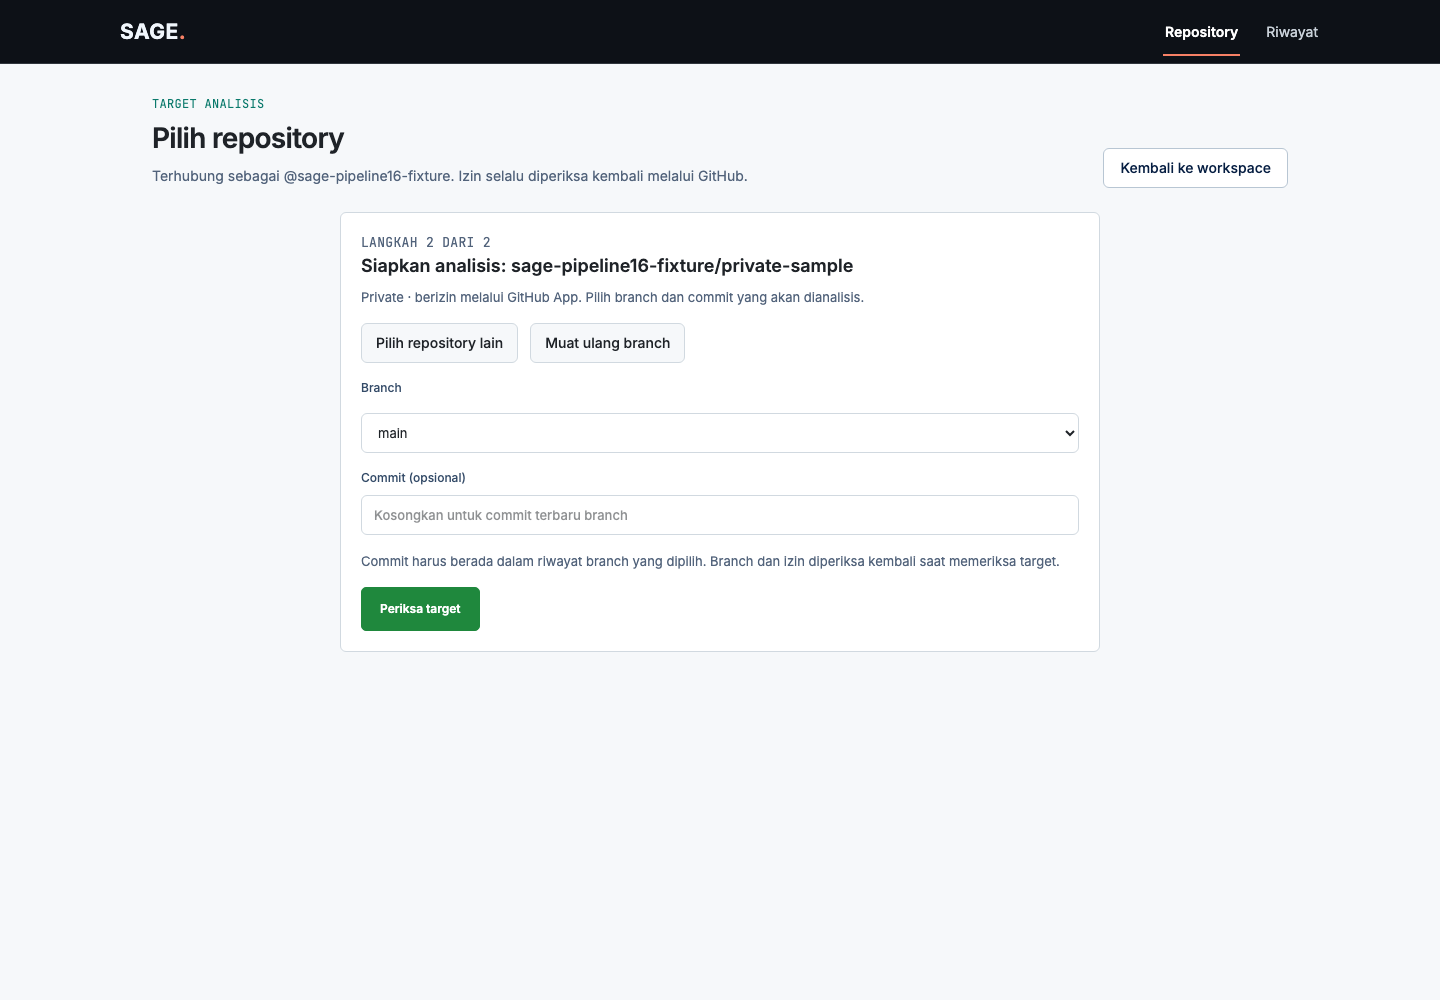
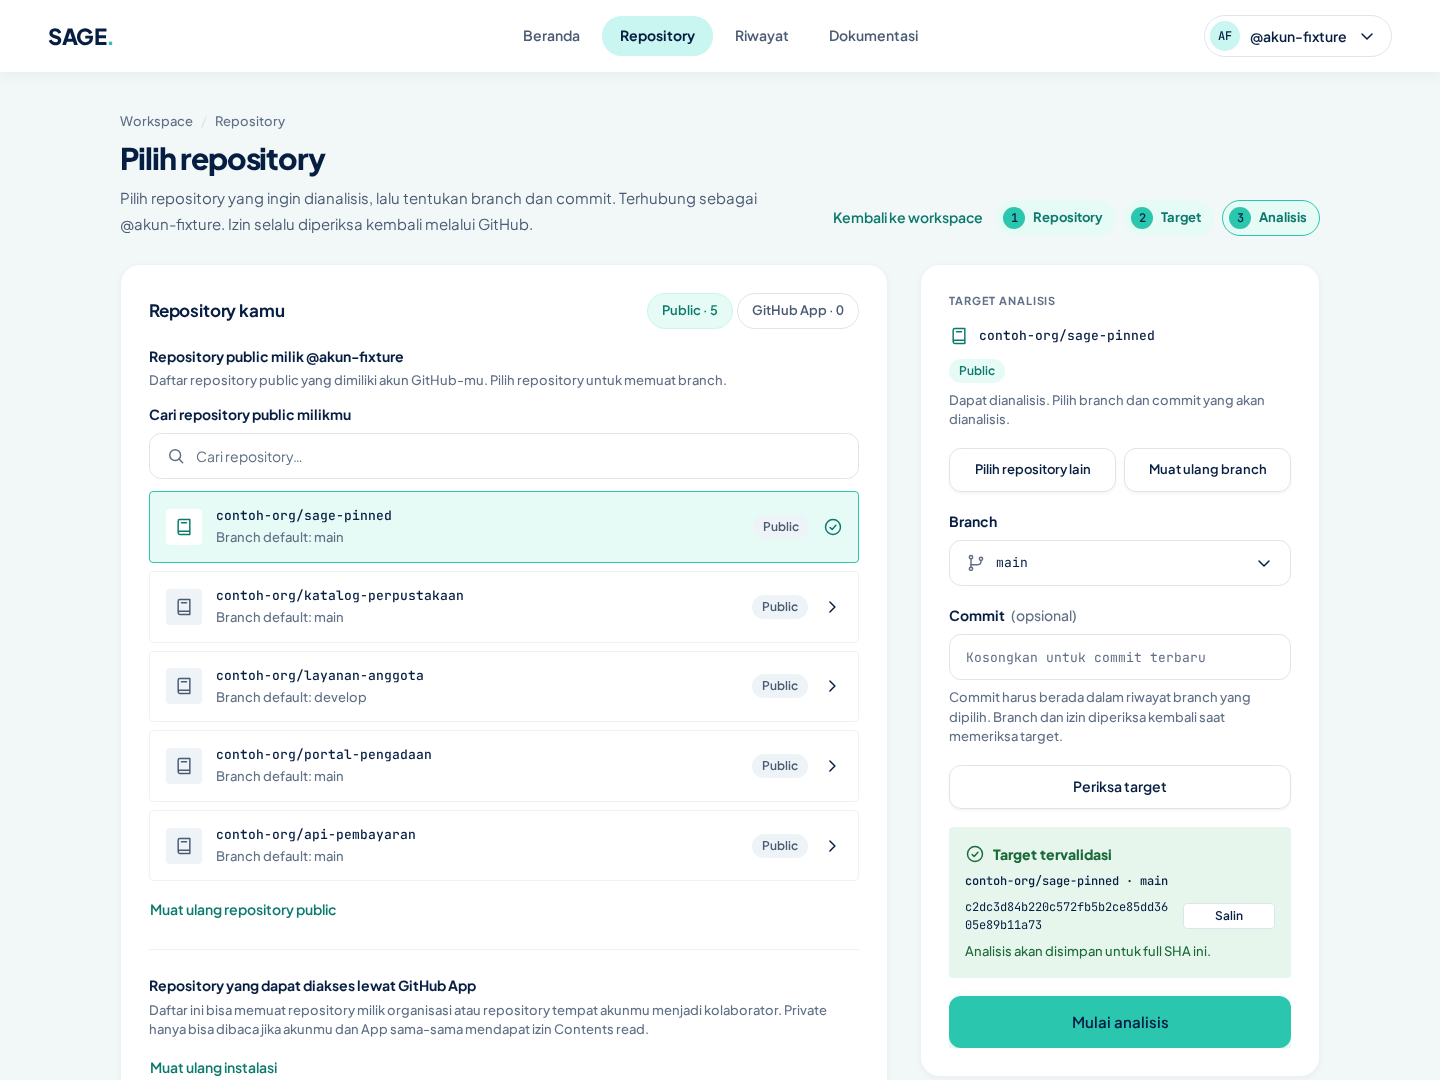
docs(readme): tulis ulang README dengan hero, angka, sebelum/sesudah, dan screenshot UI baru

diff --git a/README.md b/README.md
@@ -1,46 +1,55 @@
 <p align="center">
-  <img src="docs/assets/readme-banner.svg" alt="SAGE — Pahami struktur kode, telusuri buktinya" width="100%" />
+  <img src="docs/assets/readme-banner.svg" alt="Banner SAGE: From Repository to Architecture Definition Document, with Evidence. Baris model Analysis di schema.prisma menjadi baris Data Entity Catalog dengan evidence schema.prisma:183." width="100%" />
 </p>
 
-<p align="center"><strong>Source-code Architecture Graph Extraction</strong><br />Analisis repository menjadi TOGAF Phase C baseline yang bisa ditelusuri kembali ke source.</p>
+<p align="center">Ubah repository GitHub menjadi baseline TOGAF Phase C yang setiap klaimnya tertaut ke file, baris, dan commit.</p>
 
-<p align="center"><a href="https://sage.caiis.ai.id/">Buka SAGE</a> · <a href="docs/guides/USAGE.md">Panduan penggunaan</a> · <a href="docs/PROJECT_OVERVIEW.md">Project overview untuk AI agent</a> · <a href="docs/README.md">Dokumentasi</a> · <a href="CONTRIBUTING.md">Kontribusi</a></p>
+<p align="center">
+  <a href="https://github.com/AgilePemdigi-2026/sage/actions/workflows/ci.yml"><img src="https://img.shields.io/github/actions/workflow/status/AgilePemdigi-2026/sage/ci.yml?branch=main&label=CI" alt="Status CI Pull request checks pada branch main" /></a>
+  <a href="https://sage.caiis.ai.id/"><img src="https://img.shields.io/badge/live%20demo-sage.caiis.ai.id-2AC6AE" alt="Live demo di sage.caiis.ai.id" /></a>
+  <img src="https://img.shields.io/badge/Node.js-24-5FA04E?logo=nodedotjs&logoColor=white" alt="Node.js 24" />
+  <img src="https://img.shields.io/badge/Next.js-16-000000?logo=nextdotjs&logoColor=white" alt="Next.js 16" />
+  <img src="https://img.shields.io/badge/TypeScript-5.9-3178C6?logo=typescript&logoColor=white" alt="TypeScript 5.9" />
+</p>
 
-## Fitur dan dukungan
+<p align="center"><a href="https://sage.caiis.ai.id/">Buka SAGE</a> · <a href="docs/guides/USAGE.md">Panduan</a> · <a href="docs/README.md">Dokumentasi</a> · <a href="CONTRIBUTING.md">Kontribusi</a></p>
 
-| Fitur | Yang bisa dilakukan |
+![Landing SAGE: judul From Repository to Architecture Definition Document, with Evidence, tombol Analisis repository, dan tiga kartu hasil. Progres analisis 9 dari 9 tahap selesai, potongan TOGAF ADD dengan diagram ArchiMate dan Data Entity Catalog, serta Code Knowledge yang menunjuk src/app/api/books/route.ts baris 12.](docs/assets/screenshots/landing-hero.png)
+
+## Dalam angka
+
+Semua angka di bawah bisa dicek di repository ini.
+
+| Angka | Artinya | Sumber |
+| --- | --- | --- |
+| **9** | Tahap pipeline analisis, dari snapshot sampai penyimpanan hasil | [`packages/contracts/src/stages.ts`](packages/contracts/src/stages.ts) |
+| **10** | Bagian ADD Phase C: 5 Data Architecture dan 5 Application Architecture | [`packages/documents/src/phase-c-add.ts`](packages/documents/src/phase-c-add.ts) |
+| **4** | Bahasa yang dibaca statis: JavaScript, TypeScript, PHP, dan subset Python. Ditambah kontrak SQL, OpenAPI, dan JSON Schema | [`docs/reference/ANALYSIS_SPEC.md`](docs/reference/ANALYSIS_SPEC.md#kriteria-capability) |
+| **20** | Skenario BDD Sprint 1 (GitHub, repository, antrean, runner, source, UI) | [`tests/bdd/features/`](tests/bdd/features/) |
+| **57** | Skenario BDD Sprint 2 lulus (220 langkah, 0 gagal) | [`docs/evidence/BDD-Sprint2-Gherkin-2026-11-09.json`](docs/evidence/BDD-Sprint2-Gherkin-2026-11-09.json) |
+| **100 / 100** | Lighthouse landing, Performance dan Accessibility (mobile, 3 run). LCP 1,1 detik | [`docs/evidence/ui-revisi-2-lighthouse-2026-11-24.json`](docs/evidence/ui-revisi-2-lighthouse-2026-11-24.json) |
+
+## Sebelum dan sesudah
+
+Contoh: menyusun **Data Entity Catalog** untuk repository dengan 17 model Prisma.
+
+**Sebelum (manual).** Buka `schema.prisma`. Cari setiap blok `model`. Salin namanya ke tabel. Catat file dan nomor barisnya sebagai bukti. Ulangi 17 kali. Ulangi lagi setiap ada commit baru.
+
+**Sesudah (SAGE).** Pilih repository dan commit. SAGE menghasilkan katalog berikut, lengkap dengan evidence per baris:
+
+| Data entity | Evidence |
 | --- | --- |
-| Akses GitHub | Login dengan GitHub App; pilih repository public sendiri, public pihak lain, atau private yang diizinkan |
-| Analisis repository | Pilih branch/commit, jalankan pipeline berurutan, pantau progres dan elapsed time, lalu retry jika gagal |
-| Code Knowledge | Visual pendamping untuk menelusuri struktur source, dependency, filter node, fokus tetangga, dan evidence file/baris |
-| TOGAF Phase C ADD | Susun baseline Data Architecture dan Application Architecture dari satu snapshot commit |
-| Catalog dan matrix | Baca data entity, interface, functional decomposition, CRUD, dan interaksi yang didukung evidence |
-| Review dan ekspor | Koreksi nama/kelompok sebagai overlay; unduh Markdown, LaTeX, atau gunakan print-to-PDF A4 dari snapshot yang sama |
-| History | Cari dan buka kembali hasil milik akun sendiri, lalu hapus analisis beserta artefaknya setelah konfirmasi |
+| Analysis | [`schema.prisma:183`](tests/fixtures/semantic/sage-pinned/packages/database/prisma/schema.prisma#L183) |
+| Analysis Stage | [`schema.prisma:261`](tests/fixtures/semantic/sage-pinned/packages/database/prisma/schema.prisma#L261) |
+| Export | [`schema.prisma:362`](tests/fixtures/semantic/sage-pinned/packages/database/prisma/schema.prisma#L362) |
+| Repository | [`schema.prisma:167`](tests/fixtures/semantic/sage-pinned/packages/database/prisma/schema.prisma#L167) |
+| User | [`schema.prisma:84`](tests/fixtures/semantic/sage-pinned/packages/database/prisma/schema.prisma#L84) |
 
-**Batas analyzer:** JavaScript/TypeScript dan PHP dibaca secara statis. Python baru mendukung subset konservatif untuk deklarasi, route literal FastAPI-style, model SQLAlchemy-style, dan relasi lokal; SQL, OpenAPI JSON/YAML, serta sebagian JSON Schema menyumbang data/interface contract. Kode target tidak dijalankan dan bahasa/framework lain belum otomatis didukung. LLM kampus hanya membantu narasi jika pengguna memberi consent; ia tidak menambah fakta arsitektur.
+Potongan 5 dari 17 baris. Semua baris berasal dari blok `model` Prisma, jadi deskripsinya sama untuk setiap baris ("Data model explicitly declared by a Prisma model block."). Hasil asli pipeline analyzer, semantic model, dan ADD baseline atas fixture [`tests/fixtures/semantic/sage-pinned`](tests/fixtures/semantic/sage-pinned/) (snapshot source SAGE sendiri, commit `c2dc3d8`). Kolom Group dan Application access kosong pada fixture ini, jadi tidak ditampilkan juga.
 
-**Code Knowledge dan ADD adalah keluaran berbeda.** Graph membantu menelusuri source; ADD adalah dokumen arsitektur utama. ADD saat ini hanya baseline: target architecture, gap/RAG analysis, business capability mapping, owner, dan lokasi deployment memerlukan input manusia. `Proven`/`Indicated` tidak mengubah resolution CCM `Exact`/`Unresolved`. Lihat [panduan ADD](docs/reference/TOGAF_ADD.md) dan [kontrak analyzer](docs/reference/ANALYSIS_SPEC.md).
+## Cara kerja
 
-## Tampilan aplikasi
-
-Screenshot berasal dari aplikasi aktual dengan data fixture aman. Nama repository contoh dan commit sintetis bukan hasil analisis repository pengguna; cakupan pengambilannya tercatat pada [catatan screenshot](docs/assets/screenshots/README.md).
-
-### Pemilihan repository
-
-![Pemilihan repository dan target branch pada SAGE](docs/assets/screenshots/repository.png)
-
-### Code Knowledge
-
-![Graph komponen dan dependency dengan kontrol pencarian serta evidence](docs/assets/screenshots/code-knowledge.png)
-
-### Dokumentasi hasil (tampilan sebelum revisi ADD)
-
-![Tampilan dokumentasi lama sebelum keluaran utama diganti menjadi TOGAF Phase C baseline ADD](docs/assets/screenshots/documentation.png)
-
-## Workflow
-
-Klik node untuk membuka panduan terkait. GitHub menyediakan kontrol diagram; pada layar kecil, buka diagram untuk memperbesar.
+Klik node untuk membuka panduan terkait. Pada layar kecil, buka diagram untuk memperbesar.
 
 ```mermaid
 flowchart LR
@@ -53,41 +62,84 @@ flowchart LR
   click F "https://github.com/AgilePemdigi-2026/sage/blob/main/docs/guides/USAGE.md#ekspor-dan-history" "Review, ekspor, dan history"
 ```
 
-## Tech stack
+1. **Login GitHub.** Masuk lewat GitHub App. Token hanya disimpan di server.
+2. **Pilih repo dan commit.** Pilih repository dan branch. SAGE mengunci analisis ke satu full SHA.
+3. **Analisis.** Snapshot dibaca statis dalam 9 tahap. Kode target tidak pernah dijalankan.
+4. **Code Knowledge.** Telusuri module, simbol, dan dependency sampai ke file dan baris sumbernya.
+5. **Generate TOGAF ADD.** SAGE menyusun baseline Data dan Application Architecture dari snapshot yang sama.
+6. **Review dan ekspor.** Konfirmasi atau koreksi elemen, lalu unduh Markdown, LaTeX, atau PDF.
 
-<p align="center">
-  <a href="https://nextjs.org/"><img src="docs/assets/tech/nextjs.svg" alt="Next.js" title="Next.js" width="36" height="36" /></a>
-  <a href="https://react.dev/"><img src="docs/assets/tech/react.svg" alt="React" title="React" width="36" height="36" /></a>
-  <a href="https://www.typescriptlang.org/"><img src="docs/assets/tech/typescript.svg" alt="TypeScript" title="TypeScript" width="36" height="36" /></a>
-  <a href="https://tailwindcss.com/"><img src="docs/assets/tech/tailwindcss.svg" alt="Tailwind CSS" title="Tailwind CSS" width="36" height="36" /></a>
-  <a href="https://nodejs.org/"><img src="docs/assets/tech/nodejs.svg" alt="Node.js" title="Node.js" width="36" height="36" /></a>
-  <a href="https://www.php.net/"><img src="docs/assets/tech/php.svg" alt="PHP" title="PHP" width="36" height="36" /></a>
-  <a href="https://www.postgresql.org/"><img src="docs/assets/tech/postgresql.svg" alt="PostgreSQL" title="PostgreSQL" width="36" height="36" /></a>
-  <a href="https://www.prisma.io/"><img src="docs/assets/tech/prisma.svg" alt="Prisma" title="Prisma" width="36" height="36" /></a>
-  <a href="https://www.docker.com/"><img src="docs/assets/tech/docker.svg" alt="Docker" title="Docker" width="36" height="36" /></a>
-  <a href="https://playwright.dev/"><img src="docs/assets/tech/playwright.svg" alt="Playwright" title="Playwright" width="36" height="36" /></a>
-</p>
+## Fitur
 
-<p align="center">Next.js · React · TypeScript · Tailwind CSS · Node.js<br />PHP · PostgreSQL · Prisma · Docker · Playwright</p>
+| Fitur | Yang bisa dilakukan |
+| --- | --- |
+| Akses GitHub | Pilih repository public milikmu, public pihak lain, atau private yang diizinkan GitHub App |
+| Analisis | Pilih branch dan commit, pantau 9 tahap beserta durasinya, lalu retry bila gagal |
+| Code Knowledge | Cari, filter, dan fokus pada node. Inspector menunjukkan evidence file dan baris |
+| TOGAF Phase C ADD | Baseline Data dan Application Architecture dari satu snapshot commit |
+| Catalog dan matrix | Data entity, interface, functional decomposition, CRUD, dan interaksi aplikasi |
+| Review dan ekspor | Koreksi nama dan kelompok sebagai overlay. Ekspor Markdown, LaTeX, atau PDF A4 |
+| Riwayat | Cari, buka ulang, atau hapus analisis milikmu beserta artefaknya |
 
-Web/API memakai Next.js; worker Node.js mengorkestrasi analyzer statis JavaScript/TypeScript, PHP, dan subset Python serta proses ekspor. PostgreSQL menyimpan metadata dan hasil canonical. Snapshot serta file ekspor berada pada volume privat. LLM kampus bersifat opsional dan hanya menerima ringkasan nama/relasi setelah consent. Rincian ada di [arsitektur](docs/reference/ARCHITECTURE.md), [panduan ADD](docs/reference/TOGAF_ADD.md), dan [model data](docs/reference/DATA_MODEL.md). Logo mengikuti [lisensi aset](docs/assets/tech/README.md).
+## Tampilan
 
-## Quick start Docker
+Semua screenshot diambil dari aplikasi asli dengan akun dan nama repository sintetis. Rincian ada di [catatan screenshot](docs/assets/screenshots/README.md).
 
-Siapkan **Node.js 24** dan Docker dengan Compose yang aktif. Pengguna macOS dapat mengikuti [setup Colima](docs/guides/LOCAL_SETUP.md).
+### Repository
+
+![Halaman Pilih repository: daftar lima repository contoh, contoh-org/sage-pinned terpilih, branch main, dan kotak Target tervalidasi dengan full SHA serta tombol Mulai analisis.](docs/assets/screenshots/repository.png)
+
+### Progres
+
+![Halaman Progres analisis contoh-org/sage-pinned: status Analisis selesai, 9 dari 9 tahap selesai dengan durasi per tahap, dan durasi total 42 detik.](docs/assets/screenshots/progres.png)
+
+### TOGAF ADD
+
+![Architecture Definition Document untuk contoh-org/sage-pinned: daftar isi Data dan Application Architecture, ringkasan 17 data object dan 7 interface, serta panel ekspor Markdown, LaTeX, dan PDF.](docs/assets/screenshots/togaf-add.png)
+
+### Review ADD
+
+![Panel Review and correct the baseline: data object Analysis sudah dikonfirmasi dengan evidence packages/database/prisma/schema.prisma baris 183, progres review 1 dari 35 elemen.](docs/assets/screenshots/togaf-add-review.png)
+
+### Code Knowledge
+
+![Code Knowledge untuk contoh-org/sage-pinned: graph proyeksi esensial dengan node createExportHandlers tersorot, dan inspector yang menunjukkan apps/web/lib/exports/handlers.ts baris 84 sampai 196 serta relasi masuk.](docs/assets/screenshots/code-knowledge.png)
+
+### Riwayat
+
+![Riwayat analisis dengan lima baris: status Selesai, Berjalan, Selesai dengan batasan, dan Gagal. Setiap baris memuat SHA pendek dengan tombol salin, bahasa, durasi, dan tanggal.](docs/assets/screenshots/riwayat.png)
+
+## Quick start
+
+Siapkan **Node.js 24** dan Docker Compose. Pengguna macOS bisa memakai [Colima](docs/guides/LOCAL_SETUP.md).
 
 ```sh
 git clone https://github.com/AgilePemdigi-2026/sage.git
 cd sage
 node scripts/setup-local.mjs
-docker compose config --quiet
-docker compose build
-docker compose up -d --wait --wait-timeout 180
+node scripts/setup-github-app.mjs
+docker compose up -d --build --wait --wait-timeout 180
 ```
 
-Buka [localhost:3000](http://localhost:3000). `web`, `worker`, dan `db` harus healthy; `migrate` selesai dengan exit 0. **Login memerlukan konfigurasi GitHub App sendiri** sesuai [panduan GitHub App](docs/guides/GITHUB_APP_SETUP.md). Jangan commit `.env`, token, atau private key.
+Buka [localhost:3000](http://localhost:3000). Login butuh GitHub App milikmu sendiri: ikuti [panduan GitHub App](docs/guides/GITHUB_APP_SETUP.md). Jangan commit `.env`, token, atau private key. Langkah lengkap, cara berhenti tanpa kehilangan data, dan troubleshooting ada di [setup lokal](docs/guides/LOCAL_SETUP.md).
 
-Untuk menghentikan aplikasi tanpa menghapus data, jalankan `docker compose stop`. Untuk menyalakan container yang sudah dibuat, jalankan `docker compose start`; gunakan `up` di atas jika container belum ada. Perubahan source memerlukan build dan `up` kembali. Jangan memakai `down -v` bila ingin mempertahankan data. Panduan lengkap tersedia pada [setup lokal](docs/guides/LOCAL_SETUP.md).
+## Batasan
+
+**Batas analyzer**
+
+- JavaScript, TypeScript, dan PHP dibaca secara statis.
+- Python baru subset konservatif: deklarasi, route literal gaya FastAPI, model gaya SQLAlchemy, dan relasi lokal.
+- SQL, OpenAPI JSON/YAML, dan sebagian JSON Schema menyumbang kontrak data dan interface.
+- Kode target tidak dijalankan. Bahasa dan framework lain belum didukung otomatis.
+- LLM kampus hanya membantu narasi, dan hanya jika pengguna memberi consent. LLM tidak menambah fakta arsitektur.
+
+**Code Knowledge dan ADD**
+
+- Keduanya keluaran berbeda. Graph membantu menelusuri source. ADD adalah dokumen arsitektur utama.
+- ADD saat ini hanya baseline.
+- Target architecture, gap/RAG analysis, business capability mapping, owner, dan lokasi deployment tetap butuh input manusia.
+- `Proven` dan `Indicated` tidak mengubah resolution CCM `Exact` atau `Unresolved`.
+- Rincian: [panduan ADD](docs/reference/TOGAF_ADD.md) dan [kontrak analyzer](docs/reference/ANALYSIS_SPEC.md).
 
 ## Dokumentasi
 
@@ -100,3 +152,14 @@ Untuk menghentikan aplikasi tanpa menghapus data, jalankan `docker compose stop`
 | Meninjau requirement dan bukti | [Planning](docs/planning/README.md) · [Arsip pemeriksaan](docs/archive/README.md) · [Evidence](docs/evidence/) |
 
 [Buka seluruh dokumentasi](docs/README.md).
+
+## Tim
+
+Kelompok 4 PPL, Sistem Informasi, Universitas Airlangga (UNAIR).
+
+| Anggota | GitHub |
+| --- | --- |
+| Iltizam Muhammad Hasan | [@iltizamhasan3](https://github.com/iltizamhasan3) |
+| Rizqy Fadhil Athallah | [@rizqy-fadhil](https://github.com/rizqy-fadhil) |
+| Valentina Hermawan | [@liliks13](https://github.com/liliks13) |
+| Zarra Firdaus Ananda Salia | [@zarrrafirdaus](https://github.com/zarrrafirdaus) |

diff --git a/docs/assets/screenshots/README.md b/docs/assets/screenshots/README.md
@@ -1,30 +1,35 @@
 # Screenshot produk
 
-Gambar berasal dari aplikasi SAGE aktual pada browser lokal, bukan mockup desain. Seluruh identitas, repository contoh, source fixture, dan commit sintetis merupakan data pengujian. Tidak ada kredensial atau source repository private pengguna. Screenshot disalin tanpa retouch dari artefak browser; metadata lengkap tetap pada laporan lokal.
+Gambar berasal dari aplikasi SAGE asli (server standalone produksi) di browser Chromium, bukan mockup desain. Tidak ada retouch.
 
-Source aplikasi saat pengambilan: `f4e6ab9eaff8725fc322f30e2dfe23bc352a4fef`. Instrumentasi sementara hanya menambahkan screenshot/ukuran viewport pada langkah BDD dan sudah dikembalikan; tidak ada perubahan fitur atau test runner pada PR dokumentasi. Run graph/document di bawah memeriksa subset SRS, bukan seluruh acceptance Sprint 2 atau OAuth live.
+## Data yang dipakai
 
-## repository.png
+- Akun `@akun-fixture` dan repository `contoh-org/*` adalah data sintetis. Tidak ada akun GitHub atau repository pengguna nyata.
+- Analisis `contoh-org/sage-pinned` memakai source fixture [`tests/fixtures/semantic/sage-pinned`](../../../tests/fixtures/semantic/sage-pinned/) (snapshot source SAGE sendiri, commit `c2dc3d8`). Graph, ADD baseline, dan evidence dihasilkan oleh analyzer, semantic model, dan ADD baseline asli, lalu disimpan ke database test.
+- Empat baris lain di Riwayat hanya baris analisis sintetis tanpa artefak.
+- Daftar repository, branch, dan target di halaman Repository di-mock di browser, karena akun sintetis tidak punya akses GitHub.
+- Kredensial dan token di harness bersifat sintetis. Tidak ada kredensial nyata.
 
-- Waktu: 15 November 2026, 10:54 UTC.
-- Scope: Fixture provider terkontrol; UI repository/target aktual. Nama private-sample hanya data sintetis, bukan source private.
-- Artefak lokal: `artifacts/bdd/sprint2-2026-11-15T10-54-26-914Z/live-pipeline/matrix-repository-selected-1440.png`.
[1 lines of base64/hex data omitted]
+## Cara pengambilan
 
-## code-knowledge.png
+- Tanggal: 24 November 2026.
+- Source aplikasi: `cabd9f0` (branch `docs/readme-dan-riwayat`).
+- Harness Docker terisolasi (project `sage-bdd-ui`) dengan database disposable `sage_bdd_sprint1` dan server di port 3100.
+- Viewport 1440 px, reduced motion aktif agar animasi tidak terekam di tengah jalan.
+- Artefak lokal (tidak di-commit): `artifacts/bdd/readme-20261124/`.
 
-- Waktu: 15 November 2026, 11:17 UTC.
-- Scope: Browser BDD graph: 5 skenario/33 langkah PASS; database disposable, sesi sintetis, komponen aplikasi aktual.
-- Artefak lokal: `artifacts/bdd/sprint2-2026-11-15T11-17-08-447Z/readme-graph.png`.
[1 lines of base64/hex data omitted]
+## Berkas
 
-## documentation.png
+| Berkas | Halaman | Ukuran | SHA-256 |
+| --- | --- | --- | --- |
[7 lines of base64/hex data omitted]
 
-- Waktu: 15 November 2026, 11:18 UTC.
-- Scope: Browser BDD document: 1 skenario/10 langkah PASS; database disposable, sesi sintetis, komponen aplikasi aktual.
-- Artefak lokal: `artifacts/bdd/sprint2-2026-11-15T11-18-41-236Z/readme-document.png`.
[1 lines of base64/hex data omitted]
-
-Percobaan awal dokumentasi `sprint2-2026-11-15T11-13-07-855Z` ditolak oleh guard perubahan source, meskipun langkah browser lulus; bukan bukti acceptance. Run ulang stabil yang tercatat di atas lulus. Pengujian terdahulu di arsip tetap memiliki tanggal dan scope aslinya.
+Screenshot lama (`repository.png`, `code-knowledge.png`, dan `documentation.png` dari 15 November 2026, sebelum revisi ADD dan UI tahap 2) sudah diganti. Riwayatnya tetap ada di Git.
 
 [Kembali ke README](../../../README.md) · [Panduan testing](../../guides/TESTING.md)
